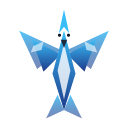
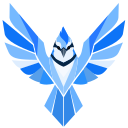
feat(brand): adopt front-facing blue jay

diff --git a/README.md b/README.md
@@ -1,3 +1,10 @@
+<p align="center">
+  <picture>
+    <source media="(prefers-color-scheme: dark)" srcset="brand/hew-bluejay-dark.svg">
+    <img src="brand/hew-bluejay.svg" width="160" alt="Hew's front-facing blue jay, with swept wings">
+  </picture>
+</p>
+
 # Hew Language Support for VS Code
 
 Syntax highlighting and language support for the [Hew programming language](https://github.com/hew-lang/hew) — a high-performance, network-native, actor-based language.

diff --git a/brand/README.md b/brand/README.md
@@ -1,0 +1,7 @@
+# Hew blue jay
+
+These SVGs are exact copies of the canonical sources in `hew-lang/hew/assets/brand/`. The transparent light and dark treatments become file-language icons; the supplied app-icon composition becomes the extension marketplace icon.
+
+Run `scripts/generate_brand_assets.sh` to refresh the 128 px PNG exports.
+
[1 lines of base64/hex data omitted]
